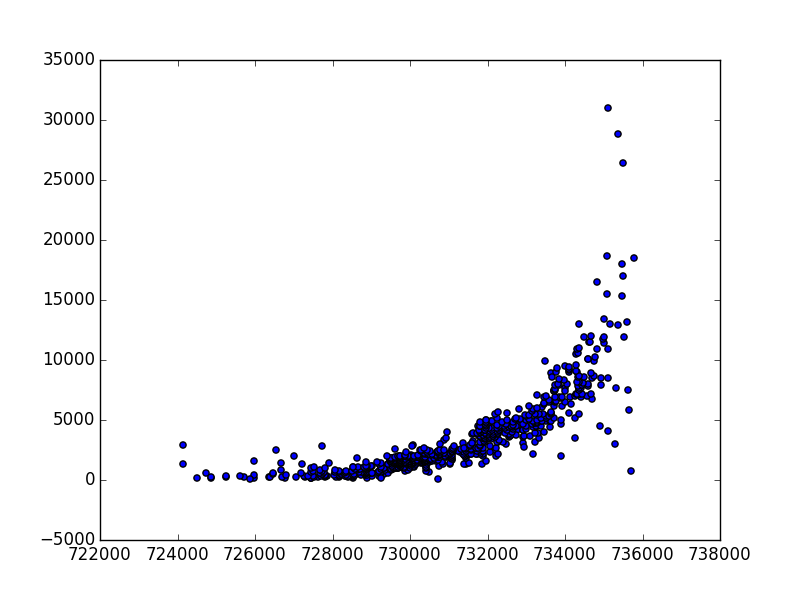
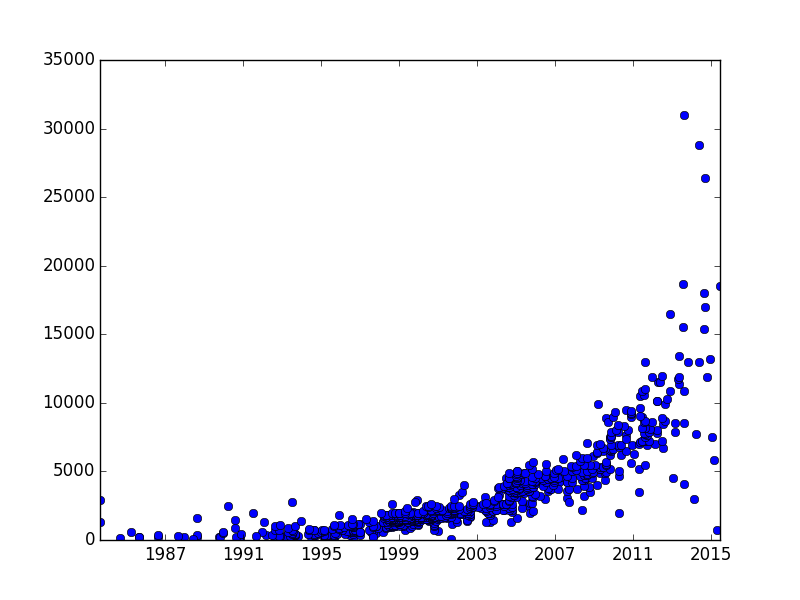
Properly plot dates
Update example image

diff --git a/parser.py b/parser.py
@@ -87,7 +87,7 @@ def plot(data):
     # convert dates into numbers which can be plotted
     for date in dates:
         num_dates.append(dt.datestr2num(date))
-    plt.scatter(num_dates, prices)
+    plt.plot_date(num_dates, prices)
     plt.show()
 
 
